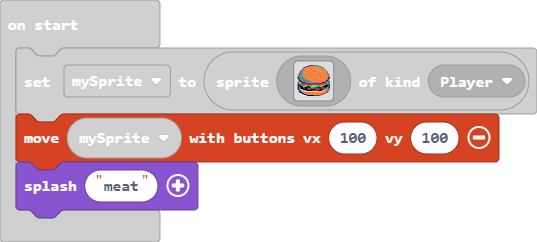
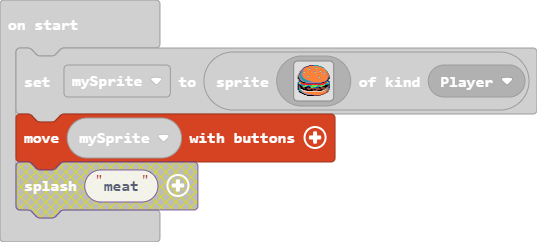
Update main.blocks, main.ts

Changed region(s): [[0.5661, 0.4628, 0.9534, 0.6942], [0.0298, 0.6653, 0.3873, 0.8967]]

diff --git a/main.ts b/main.ts
@@ -32,5 +32,4 @@ let mySprite = sprites.create(img`
     .........fffffffcccccee.........
     ................................
     `, SpriteKind.Player)
-controller.moveSprite(mySprite, 100, 100)
-game.splash("meat")
+controller.moveSprite(mySprite)
